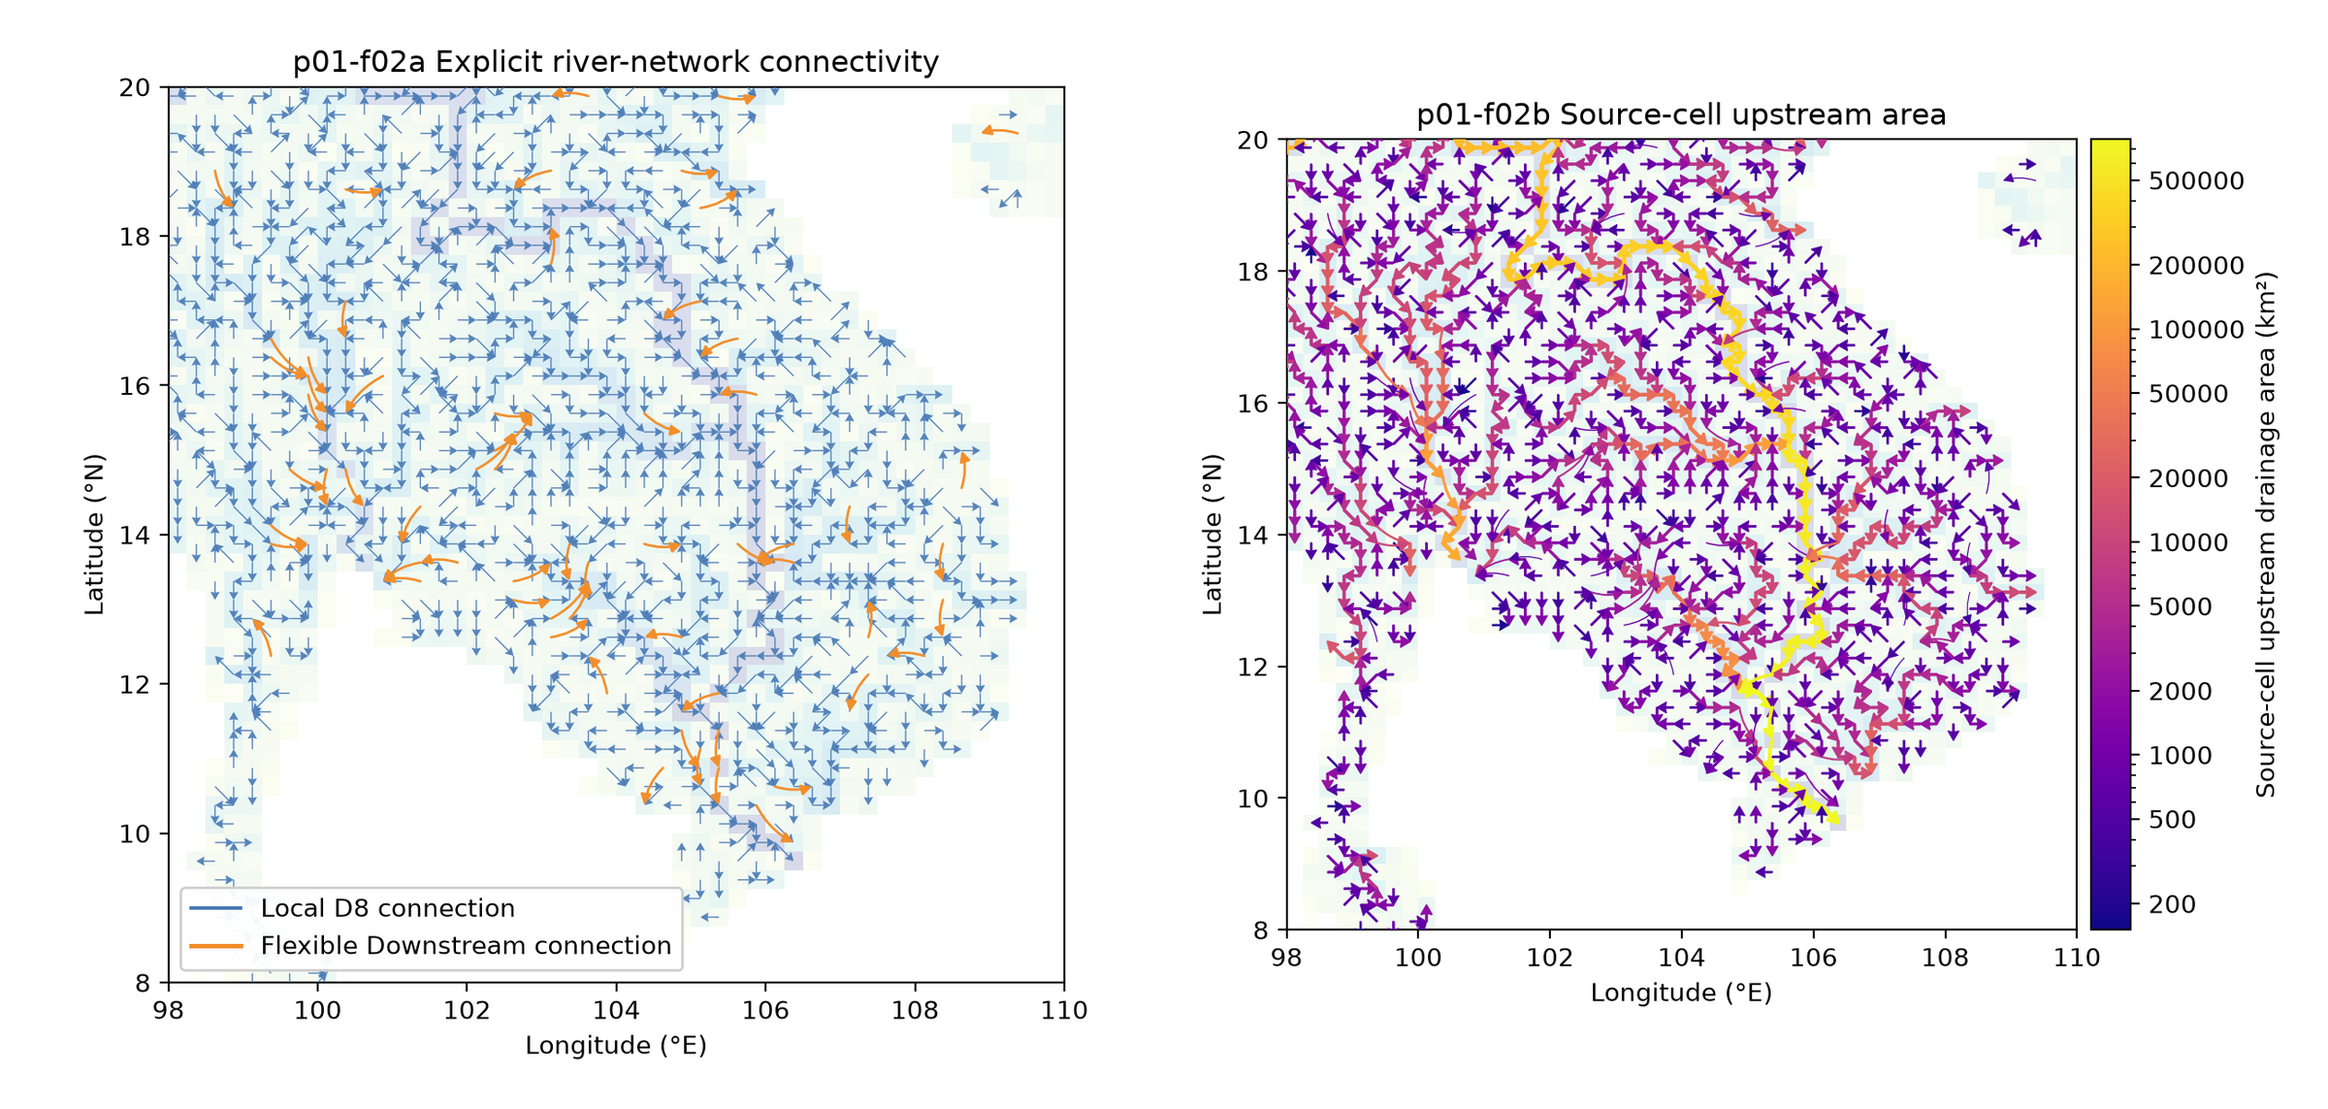
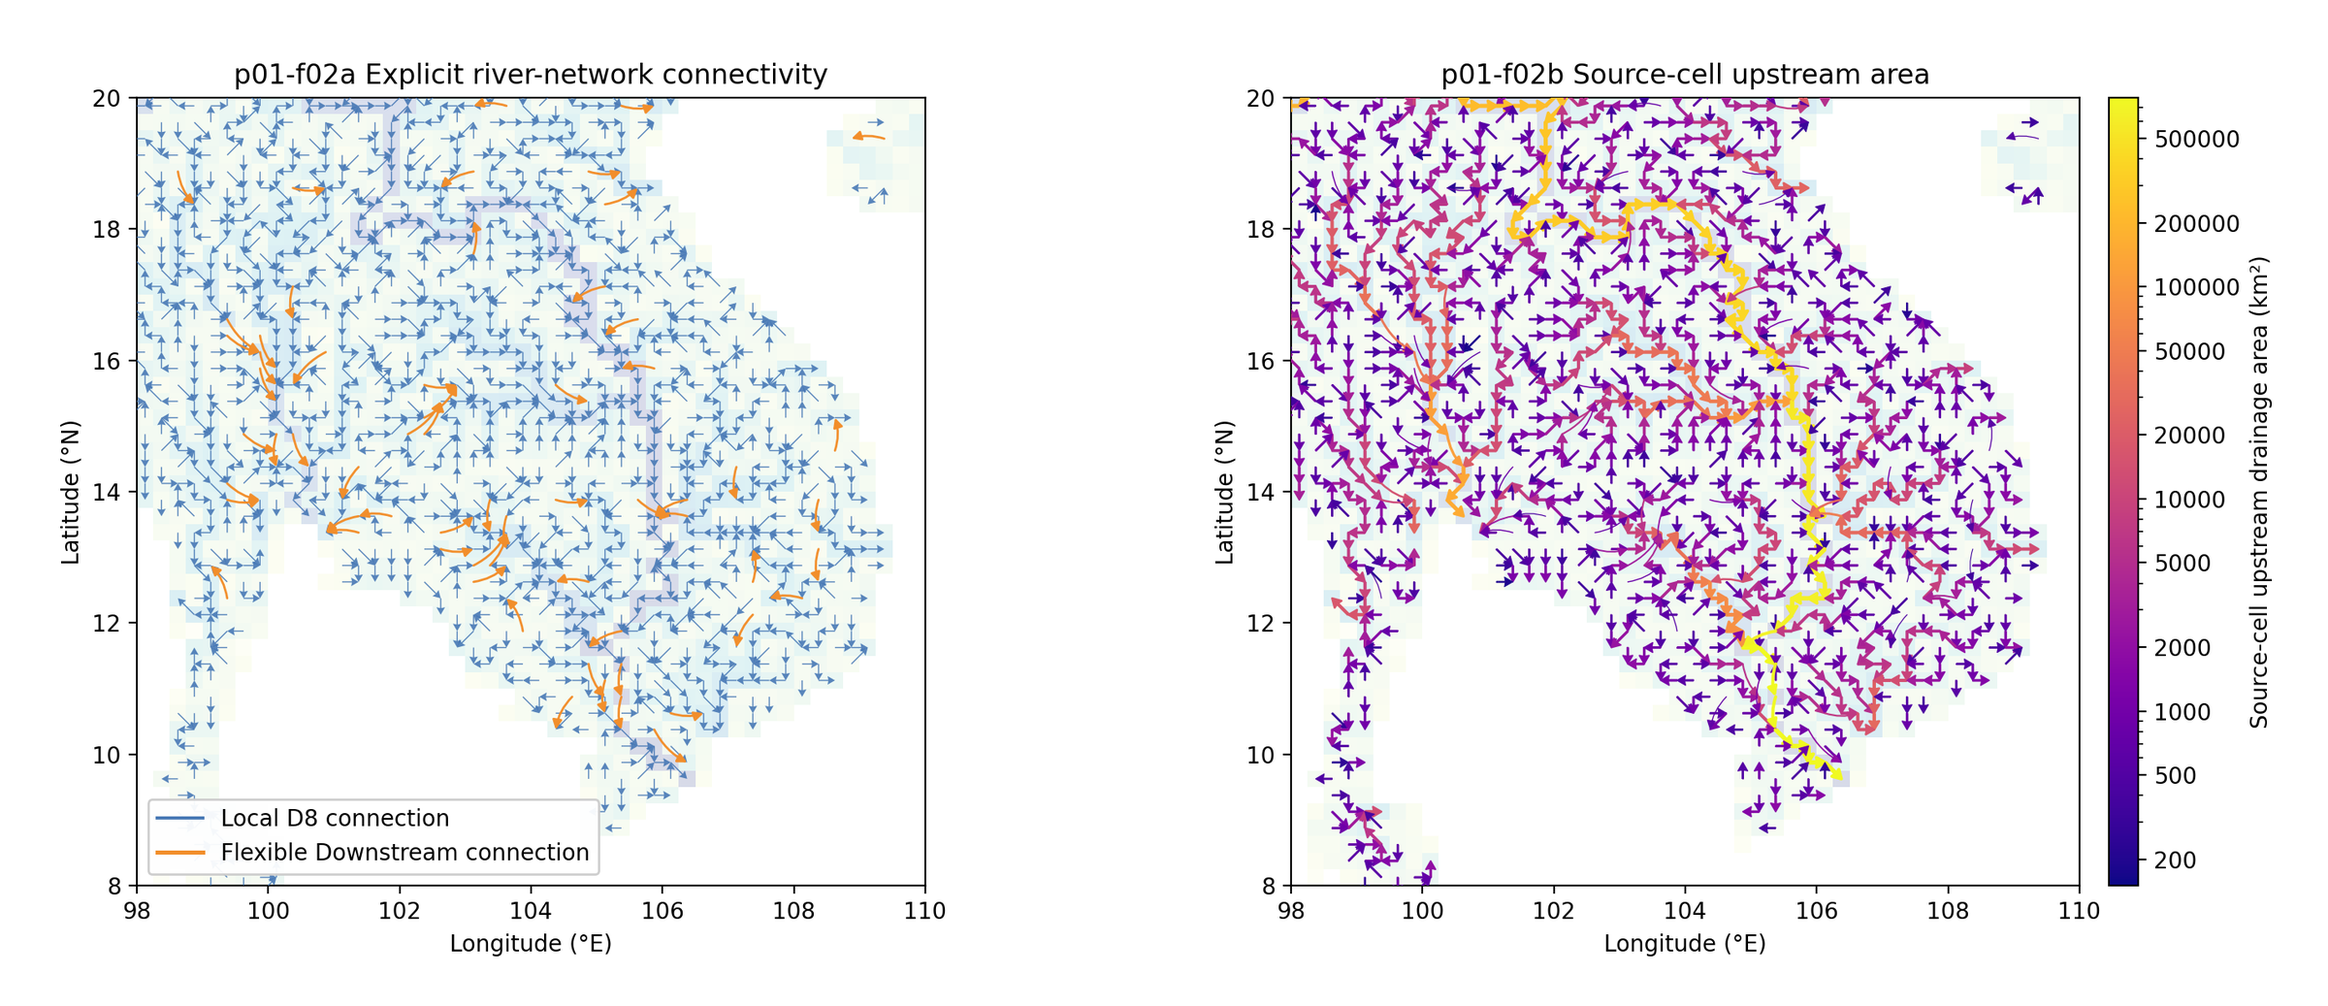
Align f02 map panels with reserved virtual colorbar space

Changed region(s): [[0.5, 0.0617, 1.0, 0.9566], [0.0312, 0.0309, 0.4688, 0.9566], [0.4375, 0.8949, 0.4688, 0.9257]]

diff --git a/visualization/river_map/script/test_river_network_layout.py b/visualization/river_map/script/test_river_network_layout.py
@@ -1,0 +1,94 @@
+"""Check real f02 exports for equal map geometry and retained hidden space."""
+
+from __future__ import annotations
+
+import contextlib
+import io
+from pathlib import Path
+import runpy
+import sys
+import tempfile
+import unittest
+from unittest.mock import patch
+
+import matplotlib
+matplotlib.use("Agg")
+import matplotlib.pyplot as plt
+import numpy as np
+from PIL import Image
+
+import river_network_layout as layout
+
+
+ROOT = Path(__file__).resolve().parents[3]
+SCRIPTS = Path(__file__).resolve().parent
+MAP = ROOT / "map/mekong_15min"
+
+
+class NetworkLayoutTest(unittest.TestCase):
+    def test_real_panels(self):
+        # Real labels, logarithmic ticks, raster and arrows catch layout drift
+        # that empty axes or a test of layout constants alone would miss.
+        for height, width in ((0, 0), (4, 0), (6, 0), (8, 0), (6, 4)):
+            with self.subTest(height=height, width=width), tempfile.TemporaryDirectory() as tmp:
+                panels = []
+                for suffix in ("a-line_river_map-connectivity", "b-line_river_map-uparea"):
+                    output = Path(tmp) / f"f02{suffix}.png"
+                    argv = [str(SCRIPTS / f"f02{suffix}.py"),
+                            "--uparea", str(MAP / "netcdf/uparea.nc"),
+                            "--nextxy", str(MAP / "netcdf/nextxy_noedge.nc"),
+                            "--params", str(MAP / "params.txt"),
+                            "--west", "98", "--east", "110", "--south", "8", "--north", "20",
+                            "--dpi", "100", "--max-height", str(height),
+                            "--max-width", str(width), "--output", str(output)]
+                    original_save = layout.save_network_panel
+
+                    def inspect(fig, ax, cax, args):
+                        size = original_save(fig, ax, cax, args)
+                        renderer = fig.canvas.get_renderer()
+                        np.testing.assert_allclose(ax.get_window_extent().bounds[1::2],
+                                                   cax.get_window_extent().bounds[1::2], atol=1e-8)
+                        for axes in (ax, cax) if cax.get_visible() else (ax,):
+                            bounds = axes.get_tightbbox(renderer)
+                            self.assertGreaterEqual(bounds.x0, 0)
+                            self.assertGreaterEqual(bounds.y0, 0)
+                            self.assertLessEqual(bounds.x1, fig.bbox.width)
+                            self.assertLessEqual(bounds.y1, fig.bbox.height)
+                            labels = [tick.label1 for tick in axes.yaxis.get_major_ticks()
+                                      if tick.label1.get_visible() and
+                                      axes.get_ylim()[0] <= tick.get_loc() <= axes.get_ylim()[1]]
+                            boxes = sorted((label.get_window_extent(renderer) for label in labels),
+                                           key=lambda box: box.y0)
+                            for below, above in zip(boxes, boxes[1:]):
+                                self.assertLessEqual(below.y1, above.y0)
+                        with Image.open(output) as image:
+                            self.assertEqual(image.size, size)
+                            if not cax.get_visible():
+                                x, y, w, h = cax.get_position().bounds
+                                region = image.convert("RGB").crop((
+                                    round(x * size[0]), round((1-y-h) * size[1]),
+                                    size[0], round((1-y) * size[1])))
+                                self.assertTrue(np.all(np.asarray(region) == 255))
+                        panels.append((size, ax.get_position().bounds,
+                                       ax.transData.transform([(98, 8), (110, 20)])))
+                        print(f"height={height}, width={width}, panel={suffix[0]}, "
+                              f"canvas={size}, map={ax.get_position().bounds}", file=sys.__stdout__)
+                        return size
+
+                    with patch.object(sys, "argv", argv), patch.object(
+                        layout, "save_network_panel", inspect
+                    ), contextlib.redirect_stdout(io.StringIO()):
+                        # Export must override even a caller's tight-crop setting.
+                        with plt.rc_context({"savefig.bbox": "tight"}):
+                            runpy.run_path(argv[0], run_name="__main__")
+                self.assertEqual(panels[0][0], panels[1][0])
+                np.testing.assert_allclose(panels[0][1], panels[1][1], atol=1e-10)
+                np.testing.assert_allclose(panels[0][2], panels[1][2], atol=1e-8)
+                if height and not width:
+                    self.assertAlmostEqual(panels[0][0][1], height * 100, delta=1)
+                if width:
+                    self.assertLessEqual(panels[0][0][0], width * 100)
+
+
+if __name__ == "__main__":
+    unittest.main()

diff --git a/visualization/river_map/script/river_network_layout.py b/visualization/river_map/script/river_network_layout.py
@@ -1,0 +1,78 @@
+"""Experimental fixed-canvas layout shared by the two p01-f02 panels."""
+
+from __future__ import annotations
+
+import json
+
+import matplotlib.pyplot as plt
+
+from river_map_common import create_map_axes, save_panel
+
+
+# Reference margins in inches: room for geographic ticks, titles, and the
+# longest logarithmic colorbar ticks plus its vertical label in either panel.
+LEFT = 0.72
+BOTTOM = 0.62
+TOP = 0.48
+COLORBAR_GAP = 0.18
+COLORBAR_WIDTH = 0.18
+RIGHT = 1.05
+
+
+def create_network_axes(geometry, args, title, *, show_colorbar):
+    """Reserve identical map and colorbar rectangles, including hidden space.
+
+    Height-only sizing uses the requested total height, with automatic width
+    derived from the map aspect and reserved margins. A width limit scales the
+    complete reference layout proportionally, as for other river-map panels.
+    """
+    fig, ax = create_map_axes(
+        geometry, args.west, args.east, args.south, args.north, title,
+    )
+    height = args.max_height if args.max_height > 0 else fig.get_figheight()
+    if height <= BOTTOM + TOP:
+        raise ValueError(f"Panel height must exceed {BOTTOM + TOP:g} inches")
+    map_height = height - BOTTOM - TOP
+    # Preserve the equal-degree aspect used by the existing background imshow.
+    # imshow sets aspect='equal' after create_map_axes in both original panels.
+    map_width = map_height * (args.east - args.west) / (args.north - args.south)
+    width = LEFT + map_width + COLORBAR_GAP + COLORBAR_WIDTH + RIGHT
+    fig.set_size_inches(width, height)
+    fig.set_layout_engine(None)
+    ax.set_position((LEFT / width, BOTTOM / height, map_width / width, map_height / height))
+    ax.set_aspect(1.0)
+    cax = fig.add_axes((
+        (LEFT + map_width + COLORBAR_GAP) / width, BOTTOM / height,
+        COLORBAR_WIDTH / width, map_height / height,
+    ))
+    cax.set_visible(show_colorbar)
+    return fig, ax, cax
+
+
+def save_network_panel(fig, ax, cax, args):
+    """Save the full canvas and report axes geometry in exported PNG pixels."""
+    # Explicit axes must not be moved or cropped by user Matplotlib settings.
+    fig.set_layout_engine(None)
+    with plt.rc_context({"savefig.bbox": None}):
+        size = save_panel(
+            fig, args.output, args.dpi, args.max_width, 0,
+        )
+    fig.canvas.draw()
+
+    def pixel_bounds(axes):
+        # Matplotlib truncates the reference canvas to whole pixels. Use
+        # renderer coordinates, then apply the actual raster resize factors;
+        # multiplying normalized positions by the truncated canvas is inexact.
+        reference_width, reference_height = (
+            int(inches * args.dpi) for inches in fig.get_size_inches()
+        )
+        sx = args.dpi / fig.dpi * size[0] / reference_width
+        sy = args.dpi / fig.dpi * size[1] / reference_height
+        x, y, width, height = axes.get_window_extent().bounds
+        return [round(v, 6) for v in (x * sx, y * sy, width * sx, height * sy)]
+
+    print("Panel layout: " + json.dumps({
+        "canvas_px": size, "map_xywh_px": pixel_bounds(ax),
+        "colorbar_xywh_px": pixel_bounds(cax), "colorbar_visible": cax.get_visible(),
+    }))
+    return size

diff --git a/visualization/river_map/script/f02b-line_river_map-uparea.py b/visualization/river_map/script/f02b-line_river_map-uparea.py
@@ -12,13 +12,11 @@ from matplotlib.colors import LogNorm
 from matplotlib.ticker import FuncFormatter, LogLocator
 
 from river_map_common import (
-    add_aligned_colorbar,
     add_map_arguments,
-    create_map_axes,
     draw_raster,
     read_geometry,
-    save_panel,
 )
+from river_network_layout import create_network_axes, save_network_panel
 from river_network_common import (
     count_segments_intersecting_extent,
     draw_flexible_arrows,
@@ -39,9 +37,10 @@ def main() -> None:
     minimum, maximum = float(area_km2.min()), float(area_km2.max())
     norm = LogNorm(vmin=minimum, vmax=maximum)
 
-    fig, ax = create_map_axes(
-        geometry, args.west, args.east, args.south, args.north,
+    fig, ax, cax = create_network_axes(
+        geometry, args,
         "p01-f02b Source-cell upstream area",
+        show_colorbar=True,
     )
     raster = network.uparea / 1_000_000.0
     raster_valid = np.isfinite(raster) & (raster > 0)
@@ -75,14 +74,12 @@ def main() -> None:
         raise RuntimeError(
             f"Rendered {rendered} arrows for {len(network.source_rows)} valid nextxy links"
         )
-    colorbar = add_aligned_colorbar(
-        fig, ax, local_arrows, "Source-cell upstream drainage area (km²)"
-    )
+    colorbar = fig.colorbar(local_arrows, cax=cax)
+    colorbar.set_label("Source-cell upstream drainage area (km²)")
     colorbar.locator = LogLocator(base=10, subs=(1.0, 2.0, 5.0), numticks=18)
     colorbar.formatter = FuncFormatter(lambda value, _: f"{value:.0f}")
     colorbar.update_ticks()
-    fig.tight_layout()
-    save_panel(fig, args.output, args.dpi, args.max_width, args.max_height)
+    save_network_panel(fig, ax, cax, args)
     plt.close(fig)
 
     visible, visible_local, visible_flexible = count_segments_intersecting_extent(

diff --git a/visualization/river_map/script/f02a-line_river_map-connectivity.py b/visualization/river_map/script/f02a-line_river_map-connectivity.py
@@ -10,7 +10,8 @@ import matplotlib.pyplot as plt
 import numpy as np
 from matplotlib.colors import LogNorm
 
-from river_map_common import add_map_arguments, create_map_axes, draw_raster, read_geometry, save_panel
+from river_map_common import add_map_arguments, draw_raster, read_geometry
+from river_network_layout import create_network_axes, save_network_panel
 from river_network_common import (
     count_segments_intersecting_extent,
     draw_flexible_arrows,
@@ -29,9 +30,10 @@ def main() -> None:
     network = read_river_network(args.uparea, args.nextxy, geometry)
     area_km2 = network.uparea / 1_000_000.0
     valid = np.isfinite(area_km2) & (area_km2 > 0)
-    fig, ax = create_map_axes(
-        geometry, args.west, args.east, args.south, args.north,
+    fig, ax, cax = create_network_axes(
+        geometry, args,
         "p01-f02a Explicit river-network connectivity",
+        show_colorbar=False,
     )
     draw_raster(
         ax, np.ma.masked_where(~valid, area_km2), geometry, "YlGnBu",
@@ -60,8 +62,7 @@ def main() -> None:
     ax.plot([], [], color="#4778B5", lw=1.4, label="Local D8 connection")
     ax.plot([], [], color="#F28E2B", lw=1.8, label="Flexible Downstream connection")
     ax.legend(loc="lower left", frameon=True, framealpha=0.95)
-    fig.tight_layout()
-    save_panel(fig, args.output, args.dpi, args.max_width, args.max_height)
+    save_network_panel(fig, ax, cax, args)
     plt.close(fig)
 
     visible, visible_local, visible_flexible = count_segments_intersecting_extent(

diff --git a/research/records/validation_runs/VR-0136.md b/research/records/validation_runs/VR-0136.md
@@ -1,0 +1,55 @@
+# VR-0136: Experimental p01-f02 virtual-colorbar layout
+
+- Task: DT-0093; instruction EV-0436, implementation EV-0437, validation EV-0438.
+- Owner: Dai Yamazaki; approved working branch: `manual-automation`.
+- Starting commit: `d74e800f5a383a5c8060d907db9be595bb3482e4`.
+- Approved scope: shared f02 layout, README, regenerated project PNGs, validation;
+  commit and push explicitly requested. No Gallery or shared guideline edits.
+- Environment: managed Linux, Python 3.12, repository `.venv` with system plotting
+  packages plus netCDF4. Inputs are the Git-tracked Mekong `uparea.nc`,
+  `nextxy_noedge.nc`, and `params.txt`.
+
+## Checks and results
+
+`python visualization/river_map/script/test_river_network_layout.py` runs the real
+independent panel entry points at 100 DPI with automatic sizing, height-only
+4/6/8-inch sizing, and 6-inch height plus a 4-inch width limit. All five cases
+pass: identical PNG sizes, map bounds and data-to-display transforms, aligned
+colorbar top/bottom, complete label bounding boxes, separated major tick labels,
+and an exactly white f02a reserved region. Tests deliberately set
+`savefig.bbox='tight'`; export preserves the full canvas regardless. Height-only
+exports are 400/600/800 pixels tall; the width-limited export is 400x341 pixels.
+
+`bash visualization/river_map/f02-line_river_map.sh` (with `.venv/bin` on PATH,
+Agg backend and a writable Matplotlib cache) regenerates all three tracked f02
+PNGs. At 200 DPI both panels are **1393x1188 pixels**. Renderer-derived rectangles
+in exported pixels, measured from the lower-left canvas corner:
+
+| Rectangle | x | y | width | height |
+| --- | ---: | ---: | ---: | ---: |
+| Map, both panels | 144 | 124 | 968 | 968 |
+| Colorbar, both panels | 1148 | 124 | 36 | 968 |
+
+The unchanged combiner produces **2400x1037 pixels** using the existing 12x8-inch
+maximum settings. A scan of dark horizontal frame pixels finds both map top
+edges at row 100 and bottom edges at rows 912–913 (antialiasing included);
+renderer equality and common composite scaling preserve geographic pixel
+scale as well. Visual review confirms
+readable labels and no clipping or overlap in the default composite.
+
+Scientific drawing code is unchanged: each panel has 3,150 nextxy links (3,022
+local, 128 curved Flexible Downstream), 1,374 direct segments intersecting the
+view, no stations, unchanged raster/masks/colors and drainage-area scaling.
+The previous `imshow` set equal-degree aspect after the geographic helper;
+this effective aspect is explicitly preserved rather than silently changed.
+An in-memory baseline comparison executed both original panel scripts from
+the starting commit and the edited scripts with intercepted save functions.
+Exact equality passed for quiver positions/vectors/values/styles, background
+data and masks, normalization, colors, flexible-arrow endpoints/curvature,
+line widths, geographic limits, and the effective axes aspect.
+No model simulation or scientific validation is claimed.
+
+`git diff --check` and `python research/validate_records.py` pass. Gallery files,
+the top-level Gallery listing, the combiner, and the shared figure guideline
+are unchanged. The brief knowledge-gap review found no material new scientific
+or architectural questions. This remains an experimental f02 layout.

diff --git a/docs/dev_status.md b/docs/dev_status.md
@@ -9,6 +9,18 @@ Base snapshot: `origin/master` at `19e2c1a`, 2026-11-06. This branch-local propo
 
 ## Registered active projects
 
+### Bounded p01-f02 layout experiment (2026-11-12)
+
+The maintainer explicitly assigned this task to `manual-automation`, owned by
+Dai Yamazaki with Codex implementation, and authorized commit/push after checks.
+Scope: shared f02 map/colorbar layout, river-map README, and three regenerated
+project PNGs; preserve scientific plotting, Gallery, and the shared guideline.
+The virtual-colorbar experiment passes five real-panel sizing/export scenarios:
+both default map rectangles are 968x968 pixels on identical 1393x1188 canvases,
+with aligned real/hidden colorbar axes. See
+[VR-0136](../research/records/validation_runs/VR-0136.md) for evidence and limits.
+This records the bounded assignment, not a change to other registered projects.
+
 ### Tutorial01 manual-authoring milestone (2026-11-08)
 
 Tutorial01 now has a standalone educational GOSH script and beginner manual at [`tutorial/tutorial01-get_started/`](../tutorial/tutorial01-get_started/); manual design, reset tooling, assessment, original drafts, and developer-only manual-generation evidence are separated under `design/`. The standard beginner build command is `make all` from `src_main/`, for either a new or existing executable. The 40-day Mekong simulation completed in a disposable checkout, and reset preserved `config/Mkinclude`. The manual defines `cmf_root`, shows verified repository and data listings, explains setup prompts and required actions, and introduces the map/runoff/matrix before their GOSH settings. Tutorial01 now uses `PROJ` and isolates results under `out/${PROJ}/`; rerun and developer-reset checks preserved sibling projects, input data, and configuration. The shared agent instructions remain evolving defaults. Python package installation remains optional; the setup script was tested in diagnosis/decline mode. This is not release-package validation, scientific validation, or Linux portability evidence. See the [tutorial collection](../tutorial/README.md), [contributor guide](../tutorial/how_to_develop_tutorials.md), [development plan](tutorial_development_plan.md), DT-0083–DT-0088, and VR-0126–VR-0131.

diff --git a/visualization/river_map/README.md b/visualization/river_map/README.md
@@ -153,3 +153,25 @@ filters links by extent: arrows with endpoints outside the view are still
 provided to Matplotlib, which clips them at the axes boundary. The project
 Figure does not create or update a Gallery image; publication requires
 separate explicit authorization.
+
+#### Experimental virtual-colorbar layout
+
+Both f02 panels reserve the same explicitly positioned map and vertical
+colorbar axes. The f02a colorbar axes are invisible (no ticks, labels, or
+frame); f02b fills that same space with its drainage-area colorbar. Shared
+dimensions in `script/river_network_layout.py` keep the map rectangles and
+complete PNG canvases identical. Both retain the existing equal-degree map
+aspect used by the background raster. Saving preserves the entire canvas,
+without tight layout or cropping, so the invisible region survives assembly.
+The combiner remains unchanged.
+
+For either panel script, `--max-height H --max-width 0` sets total panel
+height to H inches; automatic width includes the map aspect, margins, and
+reserved colorbar space. A positive width limit proportionally reduces the
+complete panel if necessary. The Shell entry point's `MAX_WIDTH` and
+`MAX_HEIGHT` still limit the assembled Figure, including spacing and margins.
+Each panel prints its canvas and map/colorbar bounds in exported PNG pixels.
+This is an experimental f02 solution, not a new shared figure-making rule.
+
+Run the geometry/export regression check from the repository root with:
+`python visualization/river_map/script/test_river_network_layout.py`.
